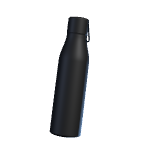
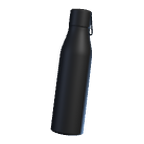
mac(tray): one size for every row picture, which also lines the status dots up
Two complaints, one cause. Each render framed its subject differently inside the
canvas — the bottle small and tall, the scale wide, the ring nearly edge to edge
— so they read as three different sizes next to SF Symbols drawn at a fourth.
Every picture is now cropped to its content and scaled to fill the same box, and
every image is handed to the menu at the same 22pt.

That is also why the dots did not line up: AppKit indents a row's text by its
image, so images of different widths gave every row a different text origin, and
a tab stop measured from there landed somewhere different on each line. With one
image size the origins match and the dots sit in a column.

Claude-Session: https://claude.ai/code/session_01MTaJeKSnLzzvxM7j2rFhx8

Changed region(s): [[0.3333, 0.0556, 0.6667, 0.9722], [0.5278, 0.3611, 0.5556, 0.4167], [0.5556, 0.1667, 0.5833, 0.1944]]

diff --git a/desktop_client/jc_client/mac_popover.py b/desktop_client/jc_client/mac_popover.py
@@ -37,10 +37,12 @@ _FOOTER_H = 34
 
 _MINI_PATH = "/?mini=voice"
 
-# Row metrics. The renders carry their own shading so they run a little larger
-# than the flat SF Symbols beside them.
-_ICON_PT = 26
-_SYMBOL_PT = 19
+# Row metrics. ONE size for every picture, renders and SF Symbols alike: AppKit
+# indents a row's text by its image, so images of different widths gave every row
+# a different text origin — which is what threw the tab-stopped status dots out
+# of line with each other.
+_ICON_PT = 22
+_SYMBOL_PT = 22
 # Where the trailing status dot is pinned. Wide enough for the longest row.
 _ROW_WIDTH = 300.0
 
